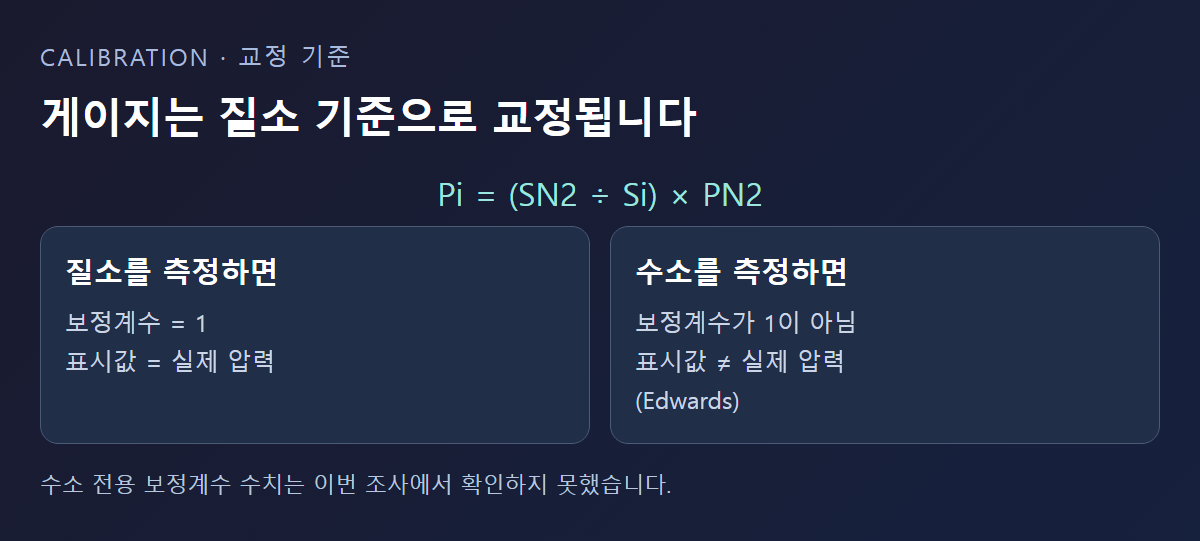
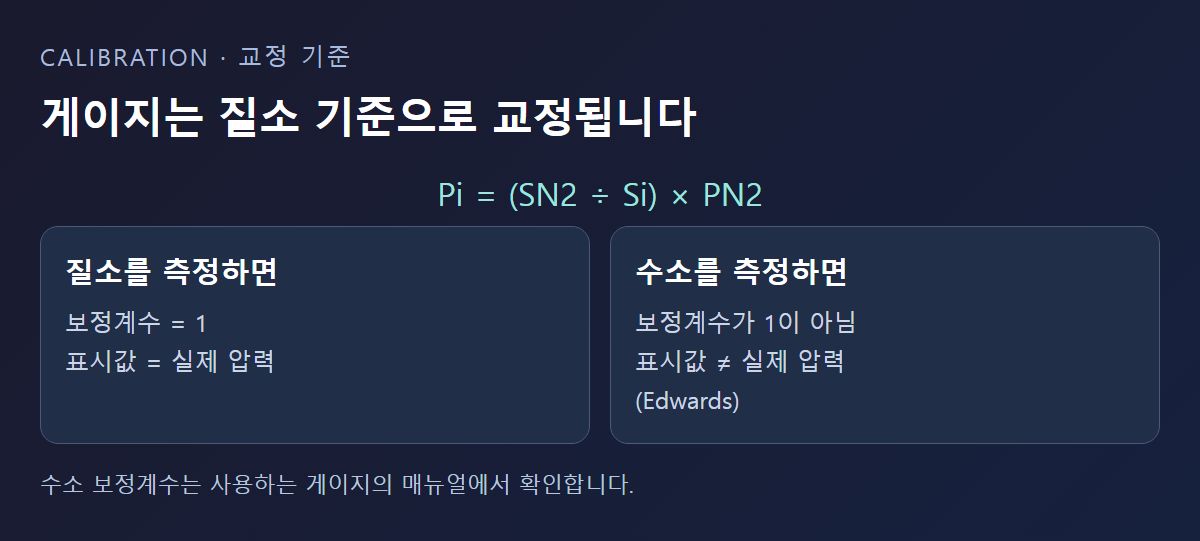
content: 1015-수소설비-진공게이지 '확인하지 못했다' 문구를 독자 안내로 수정

Changed region(s): [[0.0617, 0.8577, 0.555, 0.9168]]

diff --git a/블로그/output/기술블로그/2026-10/1015-수소설비-진공게이지/gen_images.py b/블로그/output/기술블로그/2026-10/1015-수소설비-진공게이지/gen_images.py
@@ -47,7 +47,7 @@ CALIBRATION = html("""
 <div class="grid">
 <div class="box"><h3>질소를 측정하면</h3><p>보정계수 = 1<br>표시값 = 실제 압력</p></div>
 <div class="box"><h3>수소를 측정하면</h3><p>보정계수가 1이 아님<br>표시값 ≠ 실제 압력<br>(Edwards)</p></div>
-</div><div class="note">수소 전용 보정계수 수치는 이번 조사에서 확인하지 못했습니다.</div></div>
+</div><div class="note">수소 보정계수는 사용하는 게이지의 매뉴얼에서 확인합니다.</div></div>
 """)
 
 GASDEP = html("""

diff --git a/docs/memory/current-state.md b/docs/memory/current-state.md
@@ -18,7 +18,8 @@
 - 대표님 지적: 사진2 "Pfeiffer 설명 기준", 사진3 "(Pfeiffer)"·"스마텍이 정전용량식 제품을 취급한다는 근거는 확인되지 않았습니다". 10/9에 본문만 고치고 그림(`gen_images.py`)을 놓친 것.
 - 수정: 사진2 아래 문구 삭제, 사진3은 타사 이름 삭제 + 아래 문구를 "가스와 무관한 측정이 필요한 지점에는 정전용량식 게이지(Edwards Barocel)를 쓸 수 있습니다"로, 오른쪽 칸 제목을 "APG200·AIM200·WRG200"으로 변경(스마텍이 Barocel을 취급하므로 "스마텍 취급 게이지 모두 가스 의존적"은 틀린 말). marketing.txt의 "Edwards·Pfeiffer 자료로" 삭제. check_quality·쇼츠 검사 통과, 사진 MD5 중복 0, 그림 직접 확인.
 - 규칙: `블로그/agents/writer.md` 출처 절 9항 추가 — 그림·marketing.txt·shorts.json에도 타사 이름·"근거 확인 안 됨" 문구 금지(대표님 "다음부터도 빼자").
-- **대표님 결정 대기**: ① 같은 글 사진1 아래 "수소 전용 보정계수 수치는 이번 조사에서 확인하지 못했습니다"와 본문 방폭 문단의 "이번 조사에서는 … 확인하지 못해" ② 이미 발행된 글의 그림 — `1008-펌프다운-지연원인`(id 113) 그림에 "(Leybold)", `1005-진공흡착-원리`(id 106) 그림에 "확인하지 못했습니다" ③ 미발행 `1019-진공유리-단열` 그림의 "수치는 확인하지 못했습니다".
+- ① 대표님 "고치자"(10/14)로 수정 완료: 사진1 아래 → "수소 보정계수는 사용하는 게이지의 매뉴얼에서 확인합니다", 본문 방폭 문단 → "방폭 사양이 필요한지, 어떤 등급이 맞는지는 설비의 안전 기준과 게이지 사양서를 함께 대조해 확인한다"(final·google·naver). check_quality·쇼츠 검사 통과, 썸네일은 원래 파일 유지.
+- **대표님 결정 대기**: ② 이미 발행된 글의 그림 — `1008-펌프다운-지연원인`(id 113) 그림에 "(Leybold)", `1005-진공흡착-원리`(id 106) 그림에 "확인하지 못했습니다" ③ 미발행 `1019-진공유리-단열` 그림의 "수치는 확인하지 못했습니다".
 - 1015는 여전히 approved=false. 대표님 원고·사진 OK 후 발행.
 
 ## 2026-10-13 견적·거래명세표 담당자 이름 삭제 — 데이터 직접 수정 (코드 변경 없음)

diff --git a/블로그/output/기술블로그/2026-10/1015-수소설비-진공게이지/naver.md b/블로그/output/기술블로그/2026-10/1015-수소설비-진공게이지/naver.md
@@ -42,7 +42,7 @@
 
 가스 의존적인 게이지를 수소 설비에 쓰신다면, 게이지 제조사가 제공하는 가스 보정계수표를 확인해 화면에 뜬 값을 실제 압력으로 환산하거나, 처음부터 수소에 맞게 설정된 게이지를 쓰는 것이 정확도를 높이는 방법입니다. 정확한 압력값이 공정에 중요한 경우라면 가스 의존성이 없는 측정 방식을 별도로 검토해 보실 수도 있습니다.
 
-수소는 가연성 가스이므로 게이지뿐 아니라 배관·밸브 전체에서 방폭 관련 사양이 필요한 설비인지도 별도로 확인해야 합니다. 다만 이번 조사에서는 방폭 인증 등급의 구체적인 기준 수치를 확인하지 못해, 이 글에서는 "가연성 가스 전용 사양 확인이 필요하다"는 수준까지만 안내드립니다.
+수소는 가연성 가스이므로 게이지뿐 아니라 배관·밸브 전체에서 방폭 관련 사양이 필요한 설비인지도 별도로 확인해야 합니다. 방폭 사양이 필요한지, 어떤 등급이 맞는지는 설비의 안전 기준과 게이지 사양서를 함께 대조해 확인하시기 바랍니다.
 
 여러 공정 가스를 번갈아 쓰시는 설비라면 게이지 하나로 모든 가스를 정확히 재기는 더 어려워집니다. 이런 경우 공정별로 다른 보정계수를 적용하거나, 가장 자주 다루는 가스를 기준으로 게이지를 교정해 두고 나머지 가스는 환산값을 참고치로만 쓰는 방식이 현실적인 대안이 될 수 있습니다.
 

diff --git a/블로그/output/기술블로그/2026-10/1015-수소설비-진공게이지/final.md b/블로그/output/기술블로그/2026-10/1015-수소설비-진공게이지/final.md
@@ -46,7 +46,7 @@ category: 기술문의
 
 가스 의존적인 게이지를 수소 설비에 쓴다면, 게이지 제조사가 제공하는 가스 보정계수표를 확인해 화면에 뜬 값을 실제 압력으로 환산하거나, 처음부터 수소에 맞게 설정된 게이지를 쓰는 것이 정확도를 높이는 방법이다. 정확한 압력값이 공정에 중요한 경우라면 가스 의존성이 없는 측정 방식을 별도로 검토할 수도 있다.
 
-수소는 가연성 가스이므로 게이지뿐 아니라 배관·밸브 전체에서 방폭 관련 사양이 필요한 설비인지도 별도로 확인해야 한다. 다만 이번 조사에서는 방폭 인증 등급의 구체적인 기준 수치를 확인하지 못해, 이 글에서는 "가연성 가스 전용 사양 확인이 필요하다"는 수준까지만 안내한다.
+수소는 가연성 가스이므로 게이지뿐 아니라 배관·밸브 전체에서 방폭 관련 사양이 필요한 설비인지도 별도로 확인해야 한다. 방폭 사양이 필요한지, 어떤 등급이 맞는지는 설비의 안전 기준과 게이지 사양서를 함께 대조해 확인한다.
 
 
 여러 공정 가스를 번갈아 쓰는 설비라면 게이지 하나로 모든 가스를 정확히 재기는 더 어려워진다. 이런 경우 공정별로 다른 보정계수를 적용하거나, 가장 자주 다루는 가스를 기준으로 게이지를 교정해 두고 나머지 가스는 환산값을 참고치로만 쓰는 방식이 현실적인 대안이 될 수 있다.

diff --git a/블로그/output/기술블로그/2026-10/1015-수소설비-진공게이지/google.md b/블로그/output/기술블로그/2026-10/1015-수소설비-진공게이지/google.md
@@ -46,7 +46,7 @@ category: 기술문의
 
 가스 의존적인 게이지를 수소 설비에 쓴다면, 게이지 제조사가 제공하는 가스 보정계수표를 확인해 화면에 뜬 값을 실제 압력으로 환산하거나, 처음부터 수소에 맞게 설정된 게이지를 쓰는 것이 정확도를 높이는 방법이다. 정확한 압력값이 공정에 중요한 경우라면 가스 의존성이 없는 측정 방식을 별도로 검토할 수도 있다.
 
-수소는 가연성 가스이므로 게이지뿐 아니라 배관·밸브 전체에서 방폭 관련 사양이 필요한 설비인지도 별도로 확인해야 한다. 다만 이번 조사에서는 방폭 인증 등급의 구체적인 기준 수치를 확인하지 못해, 이 글에서는 "가연성 가스 전용 사양 확인이 필요하다"는 수준까지만 안내한다.
+수소는 가연성 가스이므로 게이지뿐 아니라 배관·밸브 전체에서 방폭 관련 사양이 필요한 설비인지도 별도로 확인해야 한다. 방폭 사양이 필요한지, 어떤 등급이 맞는지는 설비의 안전 기준과 게이지 사양서를 함께 대조해 확인한다.
 
 
 여러 공정 가스를 번갈아 쓰는 설비라면 게이지 하나로 모든 가스를 정확히 재기는 더 어려워진다. 이런 경우 공정별로 다른 보정계수를 적용하거나, 가장 자주 다루는 가스를 기준으로 게이지를 교정해 두고 나머지 가스는 환산값을 참고치로만 쓰는 방식이 현실적인 대안이 될 수 있다.

diff --git a/docs/astra_work_log.md b/docs/astra_work_log.md
@@ -668,3 +668,4 @@
 - 다른 글 그림 조사(10월 폴더 gen_images.py grep): 1008 "(Leybold)"(발행됨), 1005·1019·1015 사진1 "확인하지 못했습니다" — 수정하지 않고 대표님께 보고.
 - 규칙 파일 변경은 별도 커밋(writer.md 9항).
 - 실수·복구: `gen_images.py`를 다시 돌리면서 썸네일이 제품 사진 없는 글자판으로 덮어써짐(9/23에 게이지 사진을 넣어 따로 만든 썸네일이었음). 커밋 3c14fbc의 파일로 되돌리고 눈으로 확인. 앞으로 이 글의 그림을 다시 만들 때는 썸네일을 덮어쓰지 않게 주의.
+- 이어서(대표님 "고치자"): 사진1 아래 문구와 본문 방폭 문단의 "이번 조사에서 확인하지 못해" 문장을 독자가 할 일로 수정. 그림 재생성 후 썸네일은 `git checkout`으로 원래 파일 유지. check_quality(final 2,202자·naver 2,240자)·쇼츠 검사 통과, 그림 직접 확인.
